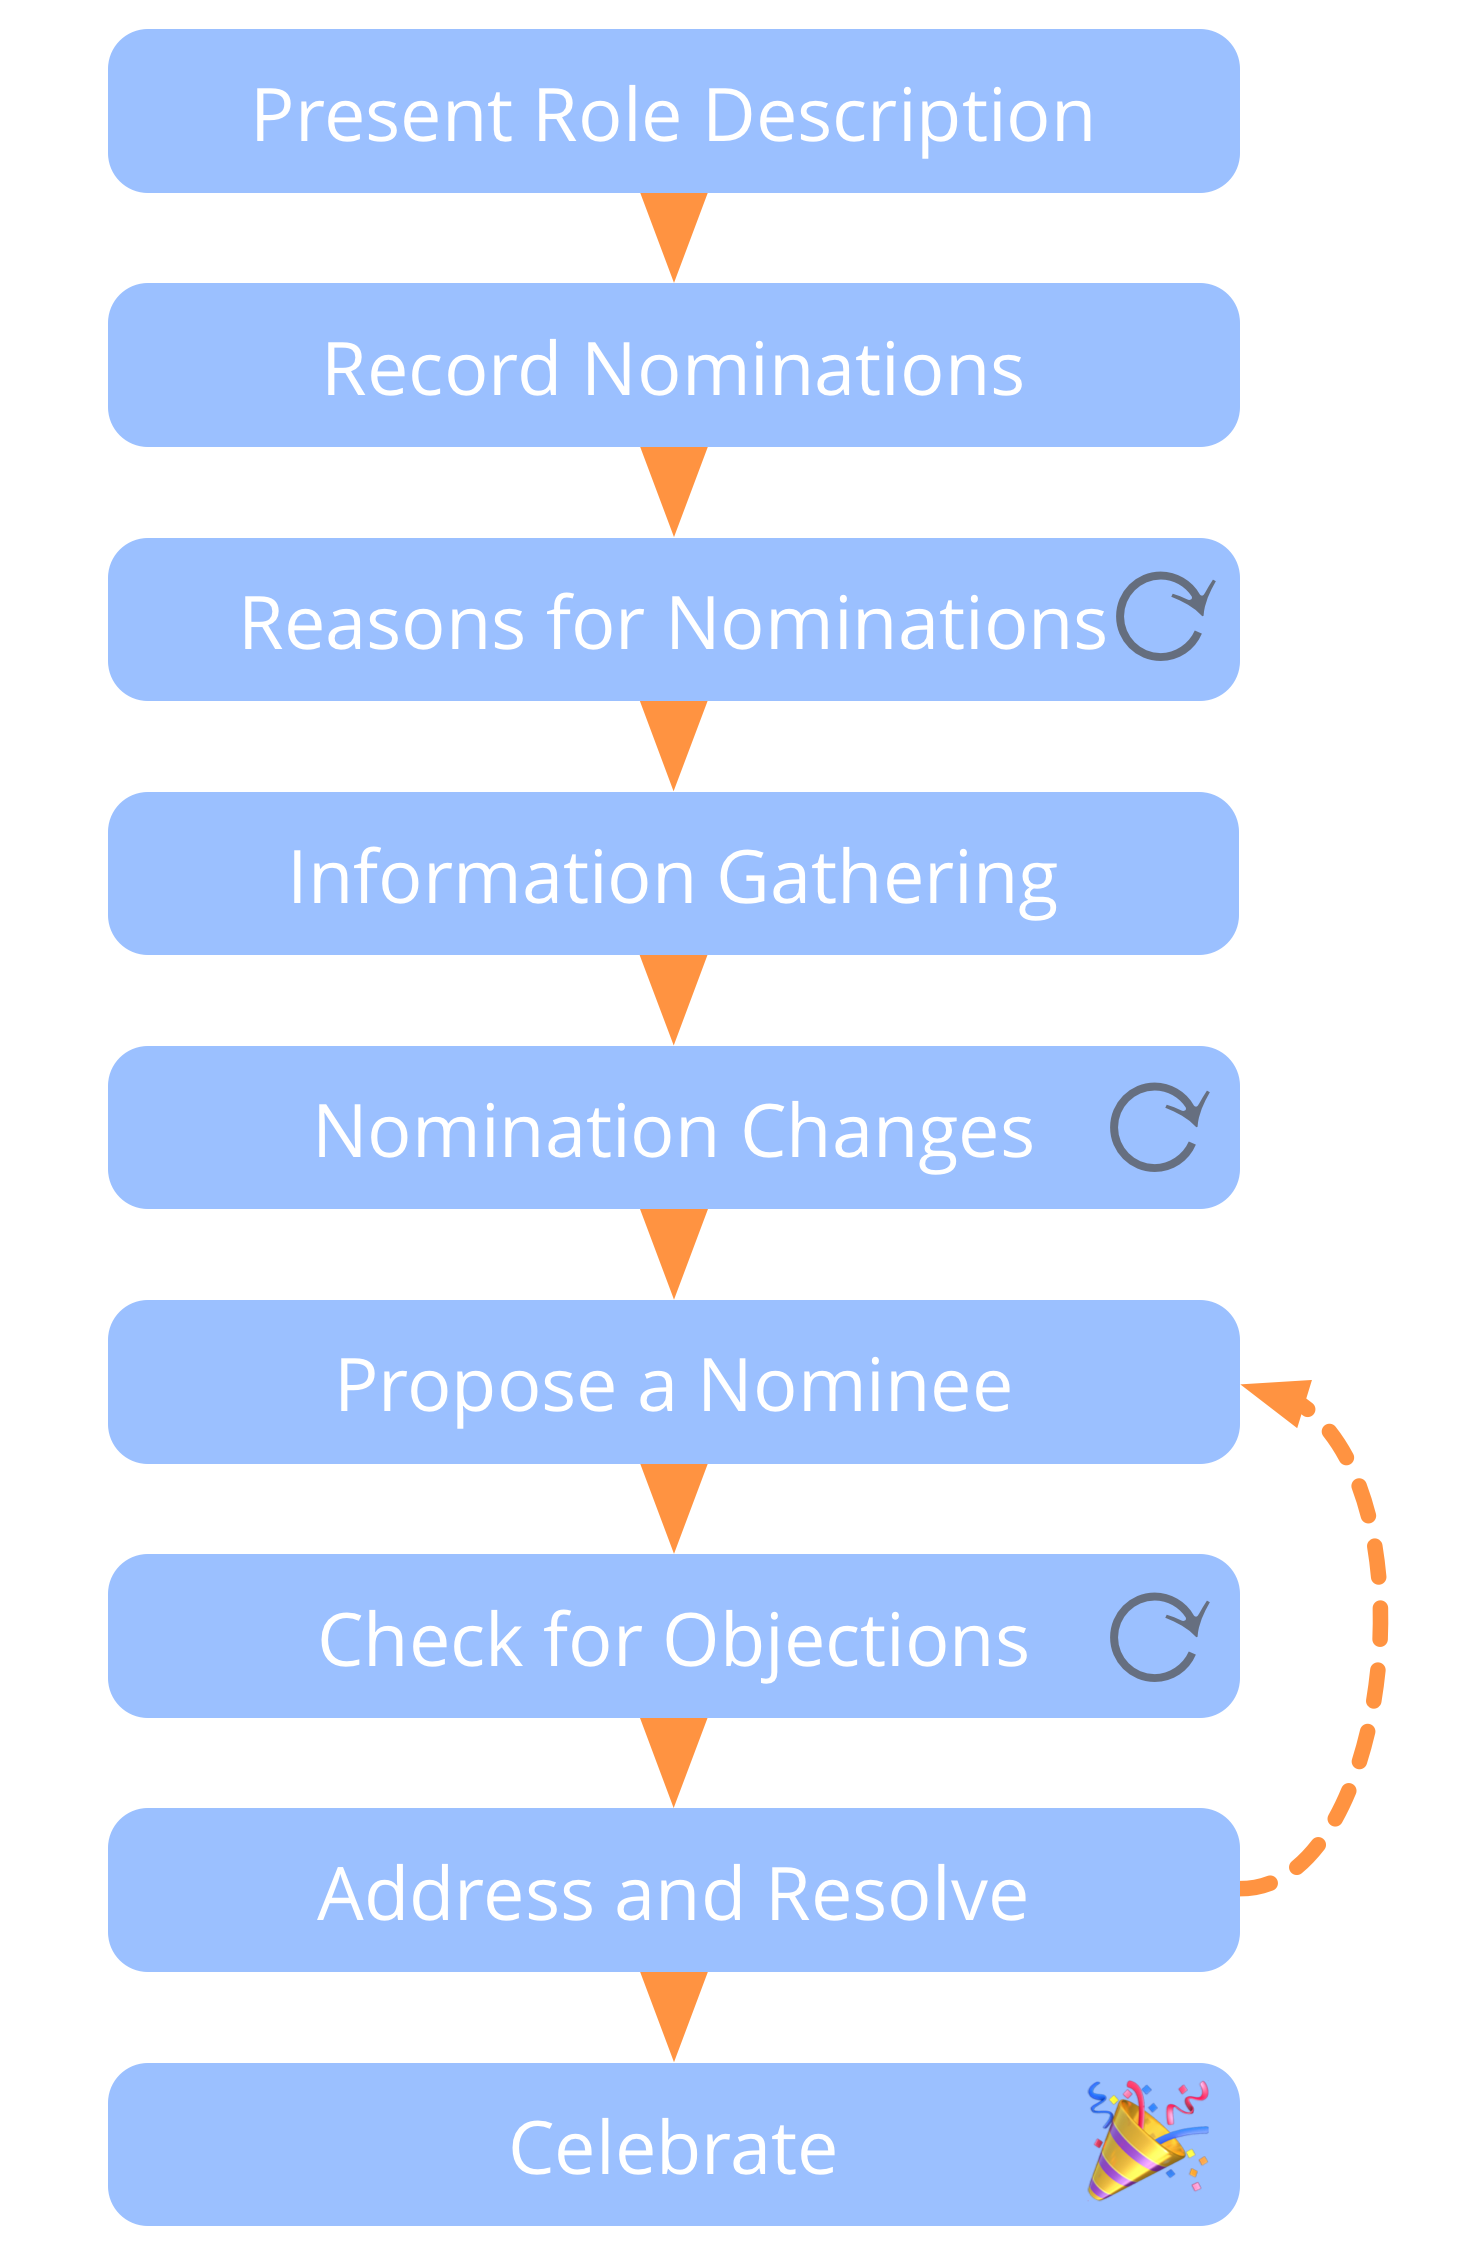
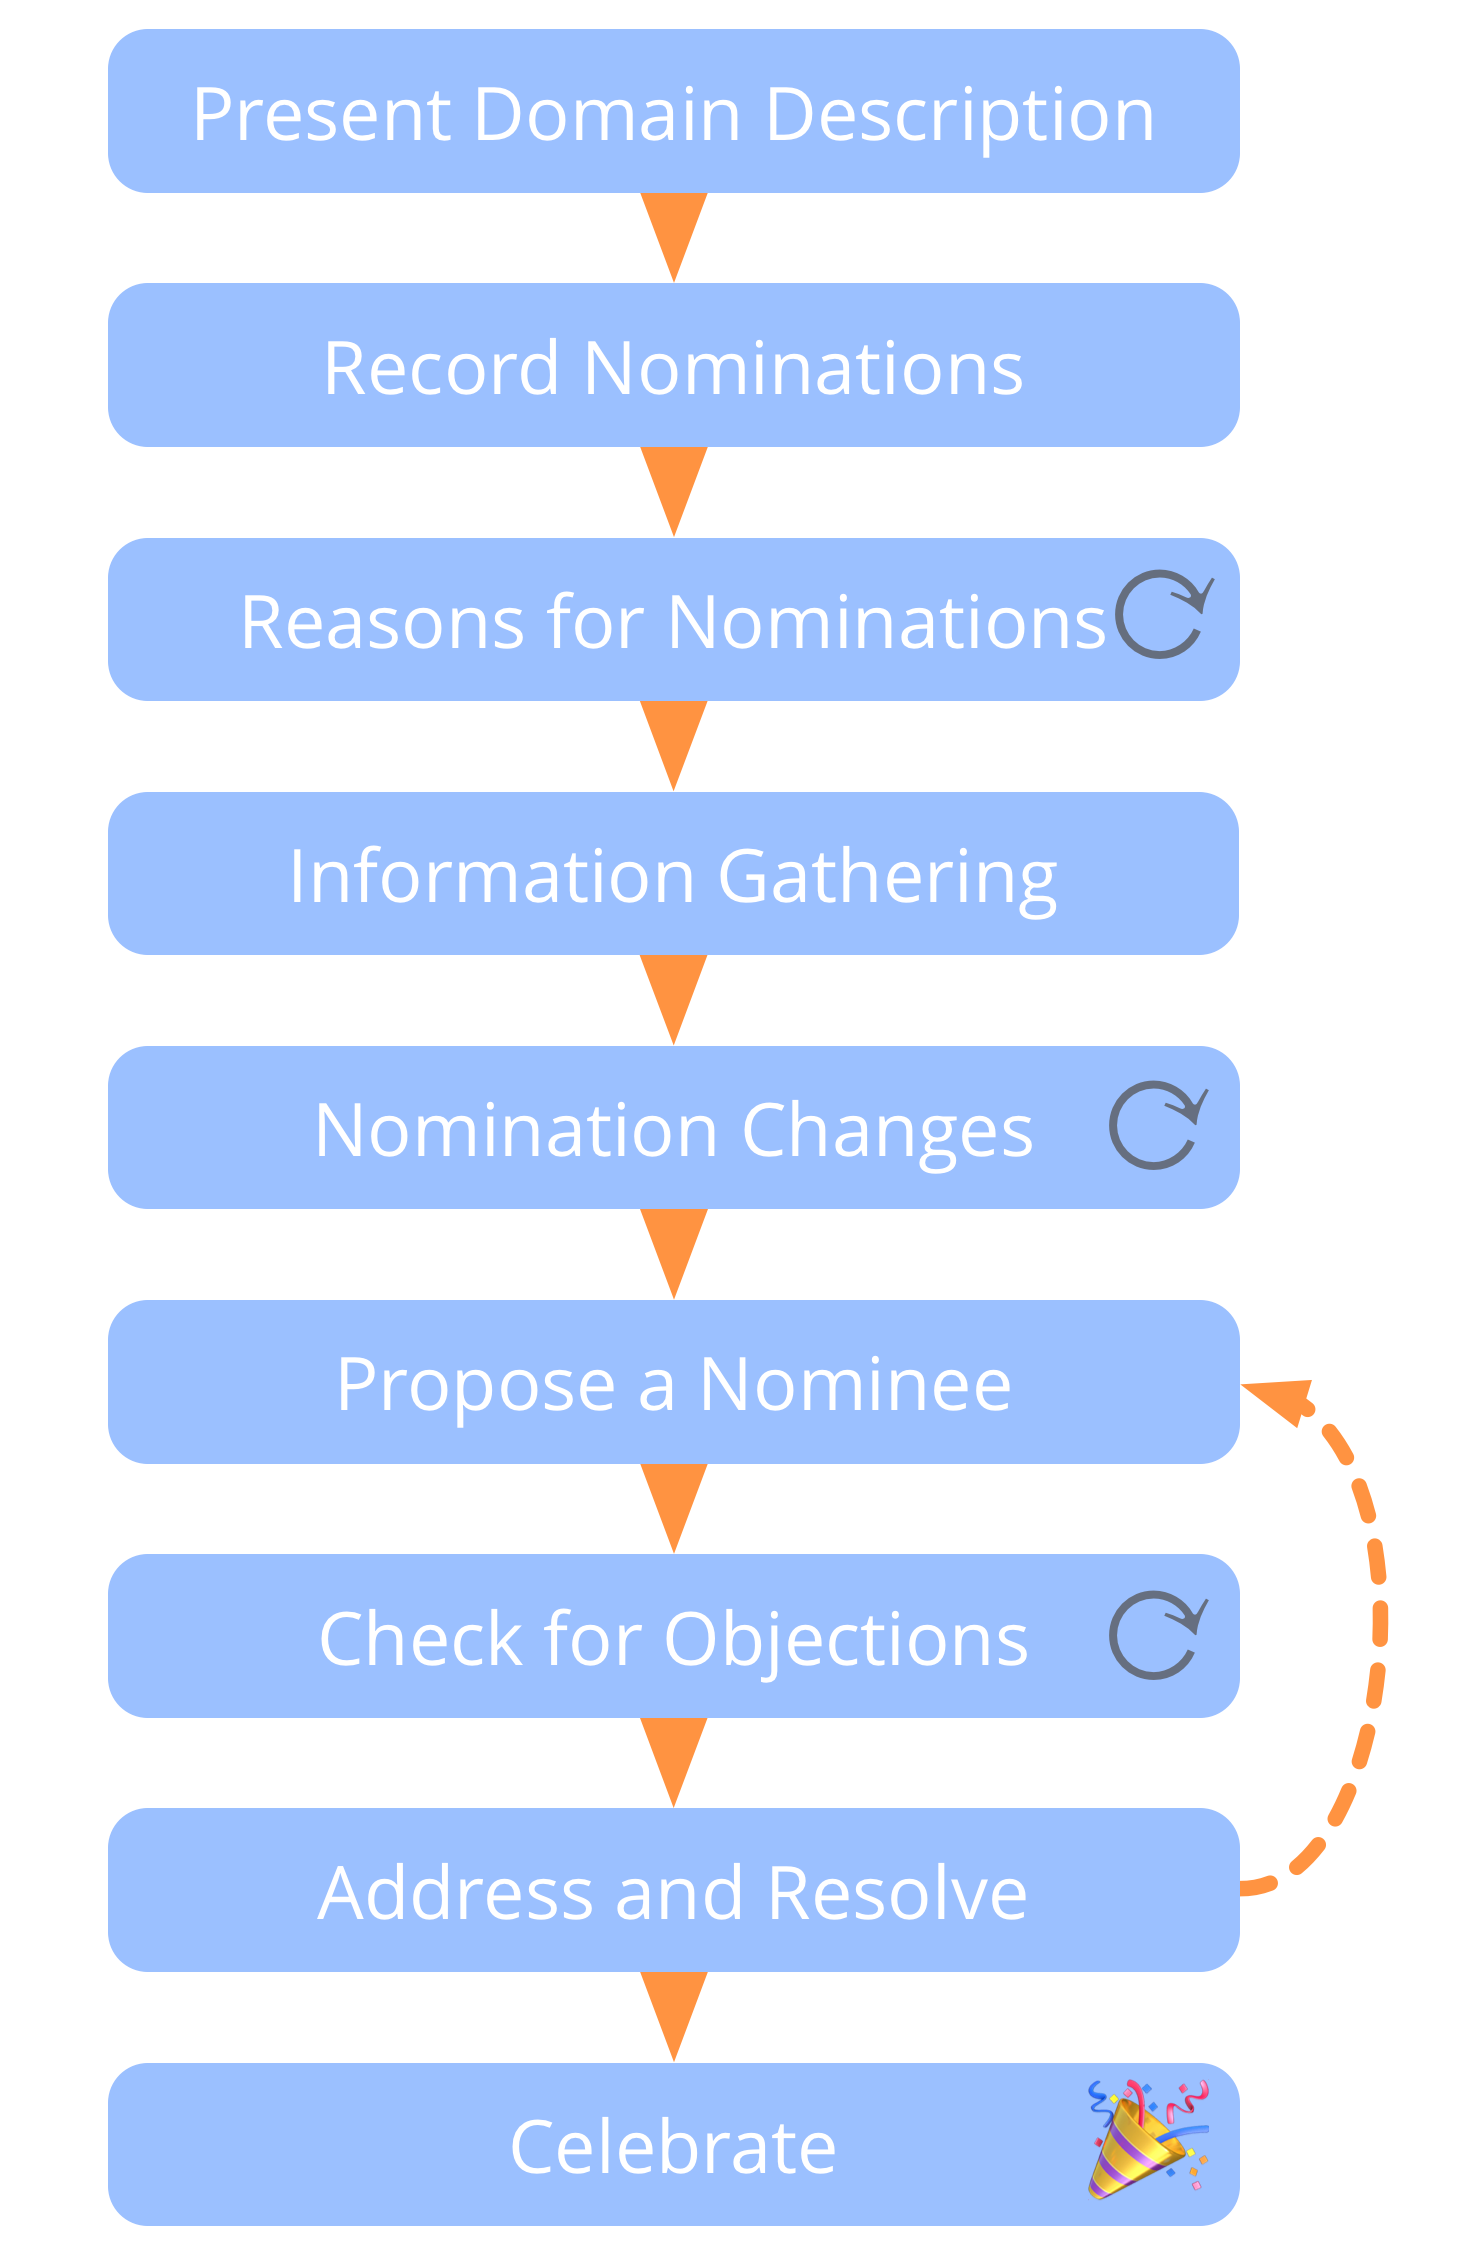
new illustration for qualify objection, retouched resolve objections process and role selection

diff --git a/docs/news.md b/docs/news.md
@@ -4,6 +4,12 @@ title: News
 
 # News and Updates
 
+## May 01, 2019
+
+* new illustration: `agreements/qualify-objection-process`
+* retouched `agreements/resolve-objections-process`
+* retouched  `agreements/role-selection`
+
 ## March 12, 2019
 
 * aligned several German translations for pattern names
